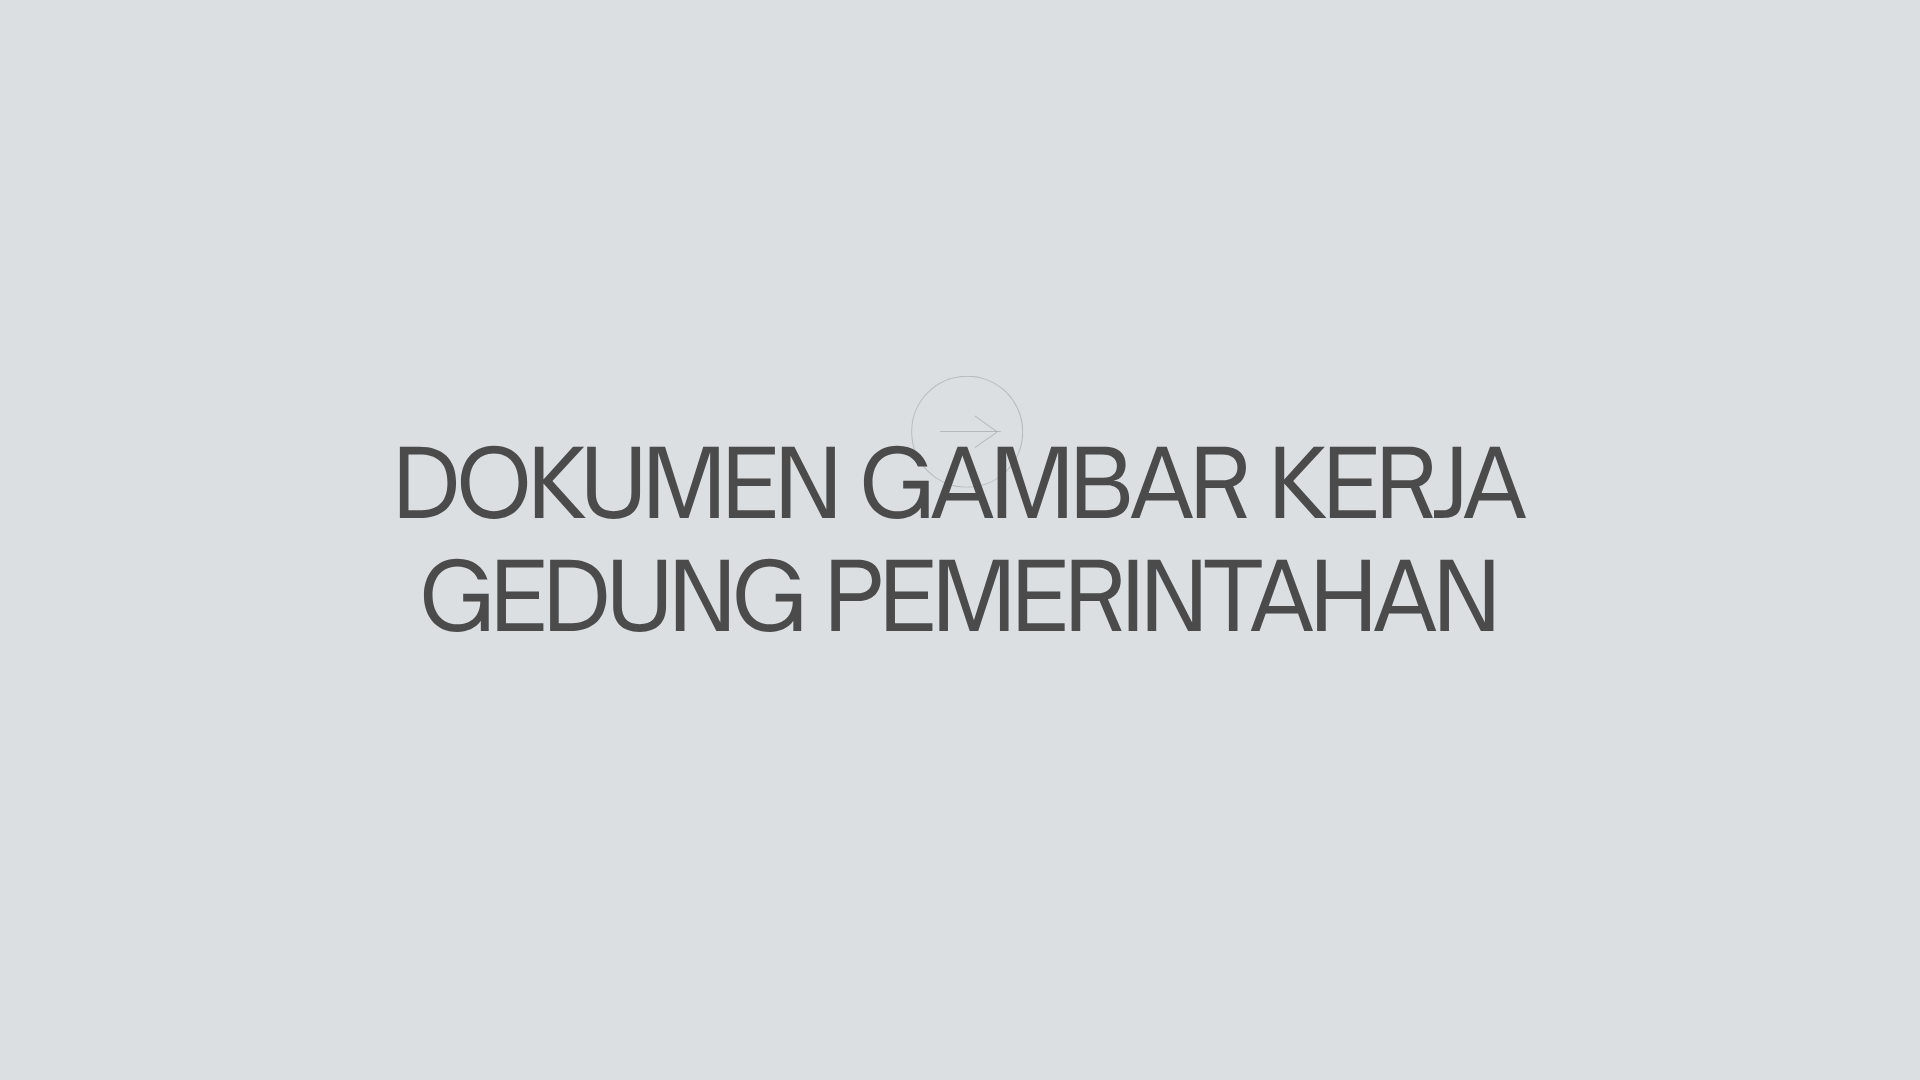
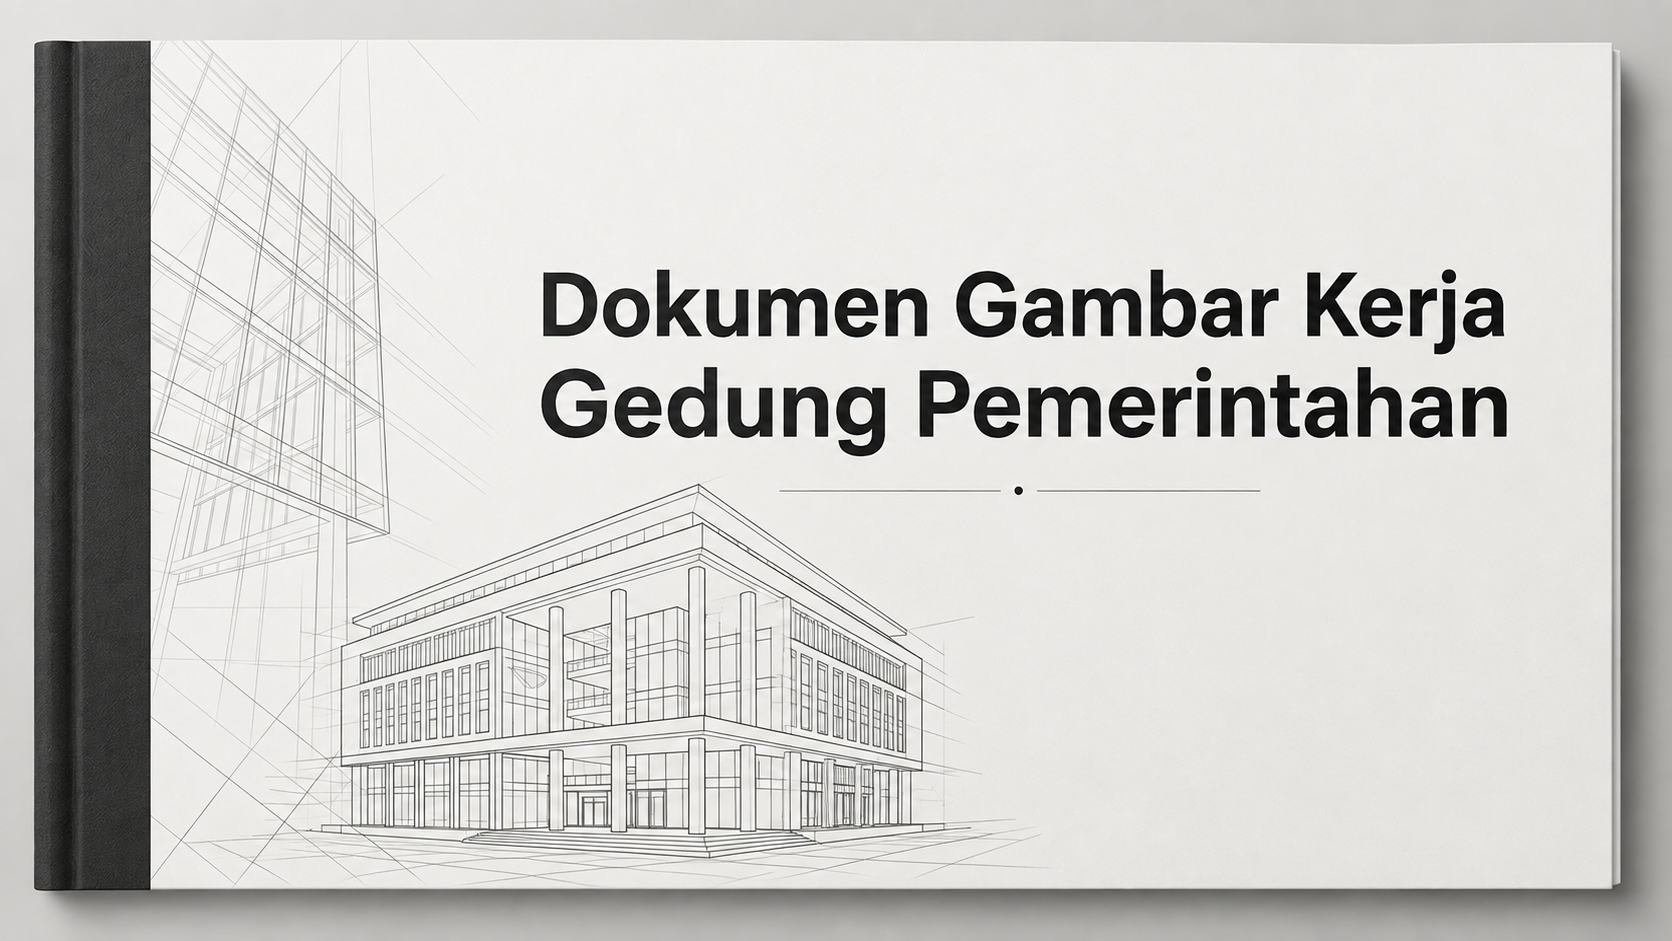
feat: integrate Vue.js portfolio management and add project cover assets

diff --git a/index.html b/index.html
@@ -81,8 +81,8 @@
           <button class="btn btn-secondary" @click="openCvModal = true">
             <i class="fa-solid fa-file-lines"></i> Ringkasan CV
           </button>
-          <a href="https://mail.google.com/mail/?view=cm&fs=1&to=maharfrds@gmail.com"
-            target="_blank" rel="noopener noreferrer" class="btn btn-outline" title="Kirim Pesan via Gmail">
+          <a href="https://mail.google.com/mail/?view=cm&fs=1&to=maharfrds@gmail.com" target="_blank"
+            rel="noopener noreferrer" class="btn btn-outline" title="Kirim Pesan via Gmail">
             <i class="fa-solid fa-envelope"></i> maharfrds@gmail.com
           </a>
           <div class="hero-stat-pill">
@@ -242,8 +242,8 @@
             <div class="contact-info-clean">
               <div class="c-row">
                 <span class="c-lbl">Email:</span>
-                <a href="https://mail.google.com/mail/?view=cm&fs=1&to=maharfrds@gmail.com"
-                  target="_blank" rel="noopener noreferrer" class="c-val">maharfrds@gmail.com</a>
+                <a href="https://mail.google.com/mail/?view=cm&fs=1&to=maharfrds@gmail.com" target="_blank"
+                  rel="noopener noreferrer" class="c-val">maharfrds@gmail.com</a>
               </div>
               <div class="c-row">
                 <span class="c-lbl">Telepon / WA:</span>
@@ -258,8 +258,8 @@
           </div>
 
           <div class="contact-actions-side">
-            <a href="https://mail.google.com/mail/?view=cm&fs=1&to=maharfrds@gmail.com"
-              target="_blank" rel="noopener noreferrer" class="contact-action-card primary">
+            <a href="https://mail.google.com/mail/?view=cm&fs=1&to=maharfrds@gmail.com" target="_blank"
+              rel="noopener noreferrer" class="contact-action-card primary">
               <div class="action-icon">
                 <i class="fa-solid fa-envelope"></i>
               </div>

diff --git a/js/app.js b/js/app.js
@@ -55,7 +55,7 @@ createApp({
         title: 'Gedung Kantor Pemerintahan',
         category: 'pemerintahan',
         disciplineLabel: 'PEMERINTAHAN',
-        coverImage: 'assets/covers/cover_pemerintahan.png',
+        coverImage: 'assets/covers/cover_ded_pemerintahan.png',
         driveUrl: 'https://drive.google.com/drive/folders/12SAzx1UTARvhhirSuyfH_2Qu86c3W0SV?usp=drive_link',
         software: 'AutoCAD 2D',
         layerStandard: 'Detail Engineering Design (DED)',
@@ -68,7 +68,7 @@ createApp({
         title: 'Rumah Tinggal',
         category: 'rumah',
         disciplineLabel: 'RUMAH TINGGAL',
-        coverImage: 'assets/covers/cover_rumah_tinggal.png',
+        coverImage: 'assets/covers/cover_ded_rumah.png',
         driveUrl: 'https://drive.google.com/drive/folders/1gp2Ziwpsg-sXck85_HDBTJLd1fIKN7oS?usp=drive_link',
         software: 'AutoCAD 2D & SketchUp LayOut',
         layerStandard: 'Detail Engineering Design (DED)',
@@ -81,7 +81,7 @@ createApp({
         title: 'Gedung Fasilitas Pendidikan / Sekolah',
         category: 'sekolah',
         disciplineLabel: 'SEKOLAH',
-        coverImage: 'assets/covers/cover_sekolah.png',
+        coverImage: 'assets/covers/cover_ded_sekolah.png',
         driveUrl: 'https://drive.google.com/drive/folders/1yQcO-5m3LEH2m0zDGnGtEWOsVgI5d6ZG?usp=sharing',
         software: 'AutoCAD 2D',
         layerStandard: 'Detail Engineering Design (DED)',
